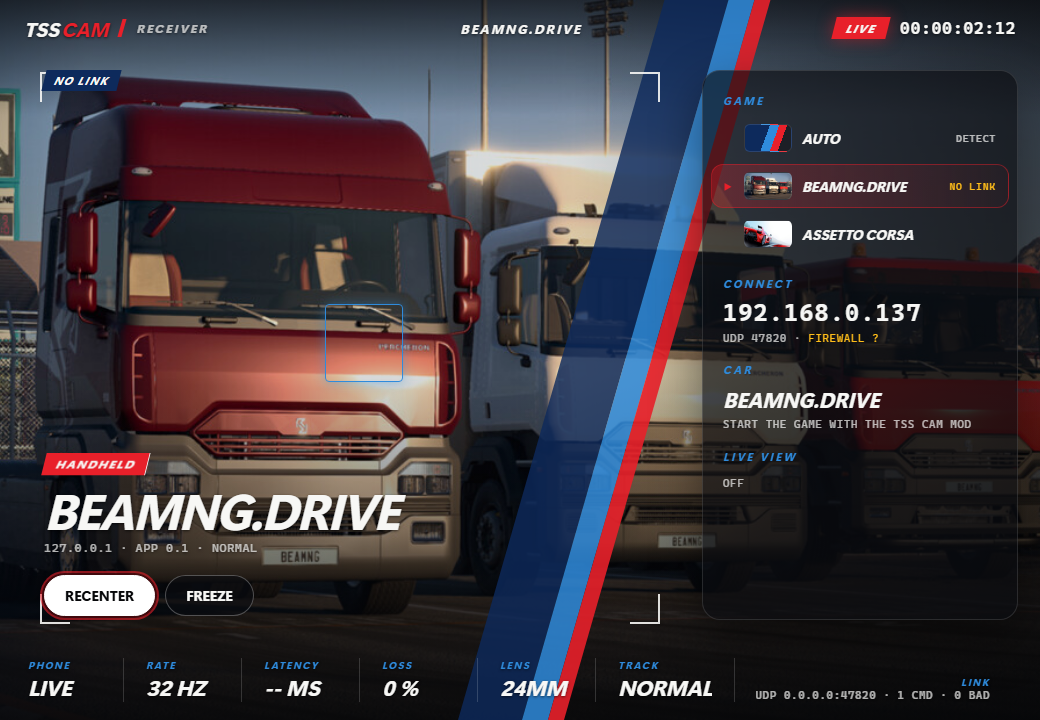
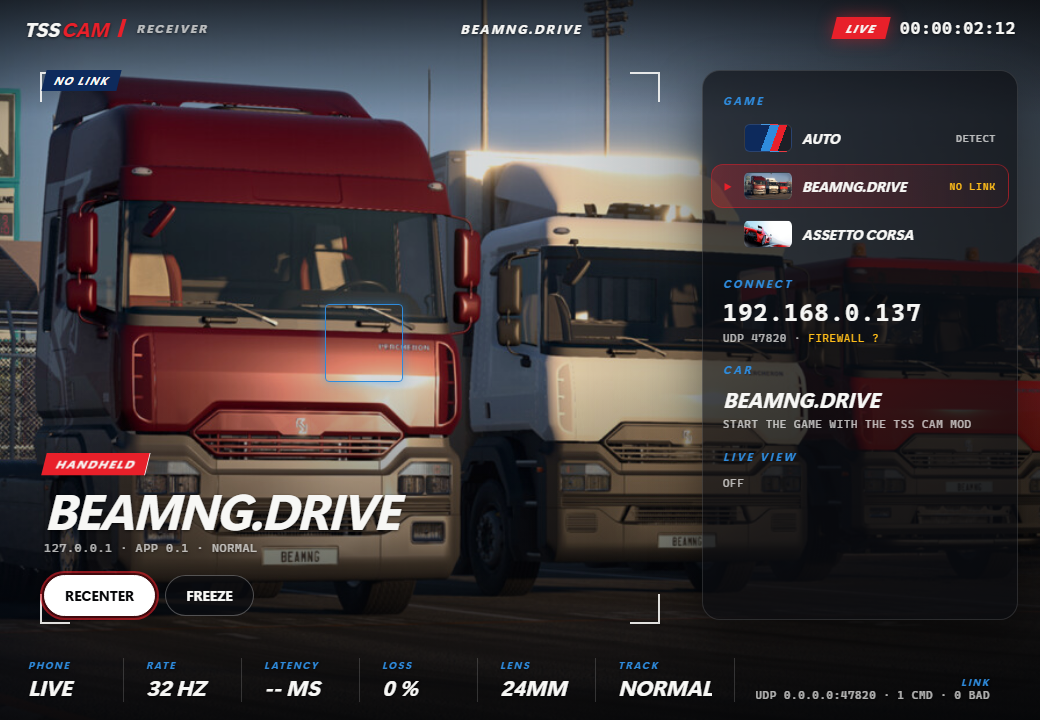
Remove the livery stripes (receiver window and phone app), on the user's call
Claude-Session: https://claude.ai/code/session_01GNwLsqmtPYEthsPmvXTVwv

Changed region(s): [[0.4308, 0.0, 0.7385, 1.0]]

diff --git a/receiver/tsscam/ui/web/style.css b/receiver/tsscam/ui/web/style.css
@@ -1,6 +1,6 @@
 /* TSS Cam: viewfinder + race livery + glass.
    - Viewfinder: the game fills the window; thin floating overlays, corner brackets, a focus box, soft shades.
-   - Livery: navy / sky / red diagonal stripes as the brand mark, slanted tally and labels, heavy italic readouts.
+   - Livery: slanted tally and labels, heavy italic race-number readouts (no stripes: the user removed them).
    - Glass: the game menu is a floating rounded glass card; the primary key is white with a ring.
    Idle draws ~0 frames: the timecode ticks only while the phone is live; no blur filters (the glass is a dark
    translucent fill, not backdrop-filter). */
@@ -27,13 +27,6 @@ button { font: inherit; color: inherit; background: none; border: 0; cursor: poi
 .monitor::after { content: ""; position: absolute; inset: 0; pointer-events: none;
   background: linear-gradient(180deg, rgba(5,6,8,0.7) 0%, transparent 16%, transparent 52%, rgba(5,6,8,0.92) 100%),
               linear-gradient(90deg, transparent 55%, rgba(5,6,8,0.55) 100%); }
-
-/* livery: three slanted stripes running down the right side of the picture */
-.livery { position: absolute; top: 0; bottom: 86px; right: 352px; width: 230px; pointer-events: none; z-index: 1; }
-.livery i { position: absolute; top: 0; bottom: 0; transform: skewX(-16deg); transform-origin: bottom; }
-.livery i:nth-child(1) { left: 0; width: 64px; background: rgba(13,42,92,0.82); }
-.livery i:nth-child(2) { left: 64px; width: 26px; background: rgba(47,139,220,0.85); }
-.livery i:nth-child(3) { left: 90px; width: 16px; background: rgba(232,32,42,0.9); }
 
 /* viewfinder marks */
 .guides { position: absolute; inset: 72px 380px 96px 40px; pointer-events: none; z-index: 2; }
@@ -85,7 +78,7 @@ button { font: inherit; color: inherit; background: none; border: 0; cursor: poi
 .row.active { background: linear-gradient(90deg, rgba(232,32,42,0.28), rgba(232,32,42,0.04)); border-color: rgba(232,32,42,0.45); }
 .row.active .caret { color: var(--red); }
 .thumb { width: 48px; height: 28px; border-radius: 6px; background: #1c1f26 center/cover no-repeat; border: 1px solid var(--line); }
-.thumb.auto { background: linear-gradient(110deg, var(--navy) 0 45%, var(--sky) 45% 62%, var(--red) 62% 76%, #1c1f26 76%); }
+.thumb.auto { background: radial-gradient(120% 140% at 20% 10%, rgba(232,32,42,0.55), transparent 65%), #1c1f26; }
 .row .val { font: 600 10px var(--mono); color: var(--dim); letter-spacing: 0.08em; font-style: normal; }
 .row .val.ok { color: var(--text); }
 .row .val.warn { color: var(--amber); }

diff --git a/app/TSSCam/UI/ContentView.swift b/app/TSSCam/UI/ContentView.swift
@@ -1,5 +1,5 @@
 // The camera app. TSS Cam's own look (same as the receiver window): a viewfinder over the camera feed (corner
-// brackets, focus box, thin overlays), race livery (navy / sky / red stripes, slanted red tally, heavy italic
+// brackets, focus box, thin overlays), race livery (slanted red tally, heavy italic
 // race-number readouts) and glass (translucent capsules, a white shutter with a ring).
 import ARKit
 import SwiftUI
@@ -184,7 +184,6 @@ struct ContentView: View {
 
     private var shutterRow: some View {
         ZStack {
-            LiveryStripes().frame(width: 120, height: 70).offset(x: -120).opacity(0.85).allowsHitTesting(false)
             HStack {
                 roundButton("scope", "RECENTER") { model.recenter() }
                 Spacer()
@@ -205,17 +204,6 @@ struct ContentView: View {
                     .overlay(Circle().stroke(Color.white.opacity(0.16)))
                 Text(label).font(.race(10)).tracking(0.8)
             }.foregroundStyle(Color.white)
-        }
-    }
-}
-
-/// Three slanted livery stripes: navy, sky, red.
-struct LiveryStripes: View {
-    var body: some View {
-        HStack(spacing: 0) {
-            Slant(lean: 22).fill(Livery.navy).frame(width: 46)
-            Slant(lean: 22).fill(Livery.sky).frame(width: 22).offset(x: -10)
-            Slant(lean: 22).fill(Livery.red).frame(width: 14).offset(x: -20)
         }
     }
 }

diff --git a/receiver/tsscam/ui/web/index.html b/receiver/tsscam/ui/web/index.html
@@ -18,7 +18,6 @@
 <div class="body">
   <section class="monitor">
     <div class="image" id="image"></div>
-    <div class="livery" aria-hidden="true"><i></i><i></i><i></i></div>
     <div class="guides" aria-hidden="true"><i class="tl"></i><i class="tr"></i><i class="bl"></i><i class="br"></i><i class="cross"></i></div>
     <div class="slate">
       <div class="mono label" id="slateLabel">STANDBY</div>
